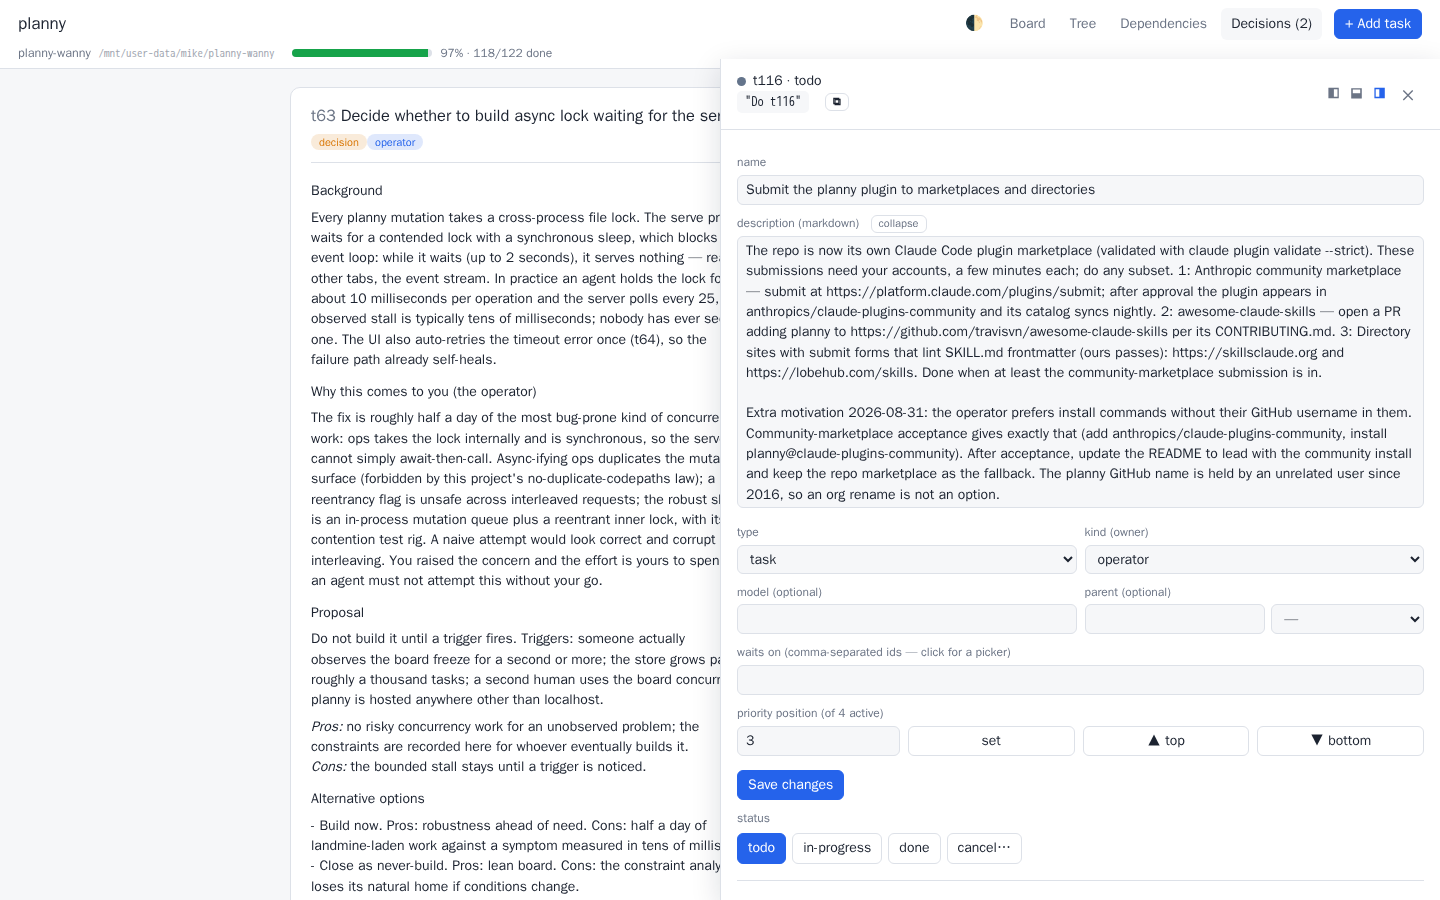
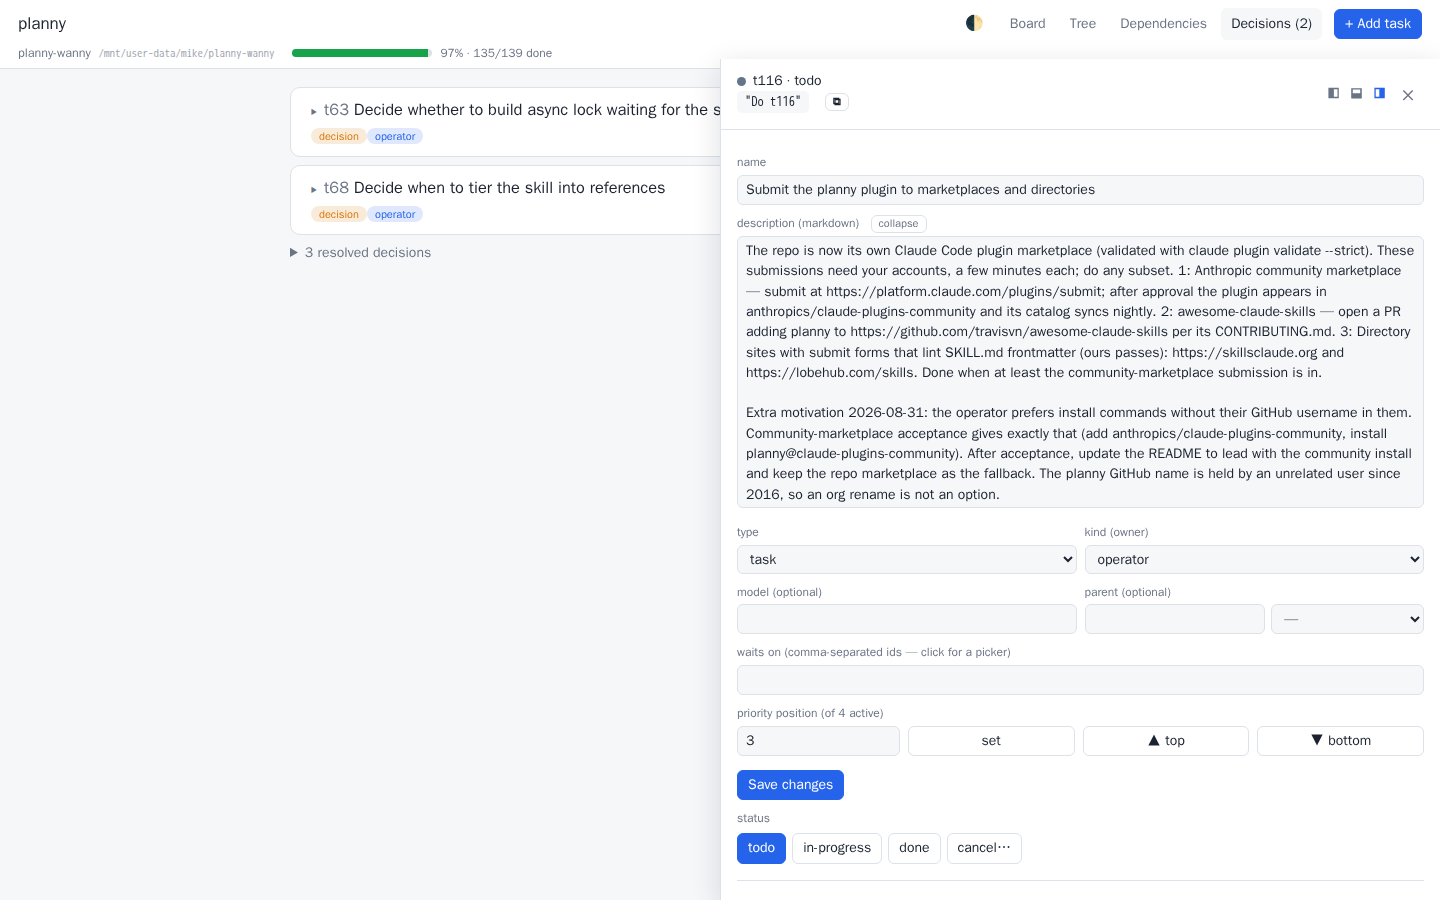
Decisions view: tiles start collapsed, expand on click; screenshots retaken (t140)
Claude-Session: https://claude.ai/code/session_01G75wbk7cxJgHXCGDBVyqTg

Changed region(s): [[0.2188, 0.4356, 0.5, 0.9956], [0.2188, 0.0933, 0.5, 0.4044]]

diff --git a/test/ui.test.ts b/test/ui.test.ts
@@ -122,6 +122,14 @@ function clickTab(view: string): void {
   (document.querySelector(`.tab[data-view="${view}"]`) as HTMLElement).click();
 }
 
+function expandDecision(id: string): void {
+  (
+    document.querySelector(
+      `#view-decisions [data-action="toggle-decision"][data-id="${id}"]`,
+    ) as HTMLElement
+  ).click();
+}
+
 beforeEach(async () => {
   await bootApp();
 });
@@ -302,8 +310,31 @@ describe('ui smoke', () => {
     expect(edgeTitle.textContent).toBe('t1 blocks t3 — t3 waits on t1');
   });
 
+  it('decision tiles start collapsed and expand on click', async () => {
+    clickTab('decisions');
+    const tile = () => document.querySelector('#view-decisions .decision-card') as HTMLElement;
+    expect(tile().classList.contains('collapsed')).toBe(true);
+    expect(tile().textContent).toContain('Choose hosting'); // the header still names it
+    expect(tile().querySelector('.decision-body')).toBeNull(); // no body while collapsed
+    expect(tile().querySelector('button[data-action="accept"]')).toBeNull(); // no actions either
+
+    expandDecision('t4');
+    expect(tile().classList.contains('collapsed')).toBe(false);
+    expect(tile().querySelector('.decision-body strong')!.textContent).toBe('Fly.io');
+
+    // A background refresh must not snap the tile shut.
+    window.dispatchEvent(new Event('focus'));
+    await new Promise((r) => setTimeout(r, 5));
+    expect(tile().classList.contains('collapsed')).toBe(false);
+
+    expandDecision('t4'); // a second click collapses again
+    expect(tile().classList.contains('collapsed')).toBe(true);
+    expect(tile().querySelector('.decision-body')).toBeNull();
+  });
+
   it('renders open and resolved decisions with markdown bodies', () => {
     clickTab('decisions');
+    expandDecision('t4');
     const view = document.querySelector('#view-decisions')!;
     expect(view.textContent).toContain('Choose hosting');
     expect(view.querySelector('.decision-body strong')!.textContent).toBe('Fly.io');
@@ -326,6 +357,7 @@ describe('ui smoke', () => {
 
   it('a skipped decision moves to a visible skipped list and can come back', () => {
     clickTab('decisions');
+    expandDecision('t4');
     (document.querySelector('button[data-action="skip"][data-id="t4"]') as HTMLElement).click();
     const view = document.querySelector('#view-decisions')!;
     expect(view.textContent).toContain('Skipped for now');
@@ -343,6 +375,7 @@ describe('ui smoke', () => {
 
   it('accepting a decision posts a resolve', () => {
     clickTab('decisions');
+    expandDecision('t4');
     (document.querySelector('button[data-action="accept"][data-id="t4"]') as HTMLElement).click();
     const resolve = fetchCalls.find((c) => c.path === '/api/tasks/t4/resolve');
     expect(resolve).toBeDefined();
@@ -456,6 +489,7 @@ describe('ui smoke', () => {
 
   it('a background refresh keeps decision drafts and focus', async () => {
     clickTab('decisions');
+    expandDecision('t4');
     const draft = () =>
       document.querySelector('textarea[data-role="response"][data-id="t4"]') as HTMLTextAreaElement;
     draft().value = 'leaning towards yes';

diff --git a/web/app.js b/web/app.js
@@ -9,6 +9,8 @@ const state = {
   selected: null, // task id shown in the drawer, or '__new__'
   collapsed: new Set(),
   skippedDecisions: new Set(),
+  expandedDecisions: new Set(), // open-decision tiles start collapsed
+
   depsMode: readPreference('planny-deps-mode', 'blocks'),
   treeFilters: {
     statuses: new Set(['todo', 'in-progress']),
@@ -483,11 +485,12 @@ function renderDecisions() {
             <button data-action="skip" data-id="${task.id}">Skip for now</button>
           </div>
         </div>`;
-    return `<div class="decision-card${blocked ? ' blocked' : ''}">
-      <h3><span class="id muted">${task.id}</span> ${esc(task.name)}</h3>
+    const expanded = state.expandedDecisions.has(task.id);
+    return `<div class="decision-card${blocked ? ' blocked' : ''}${expanded ? '' : ' collapsed'}">
+      <h3 data-action="toggle-decision" data-id="${task.id}"><span class="disclose muted">${expanded ? '▾' : '▸'}</span><span class="id muted">${task.id}</span> ${esc(task.name)}</h3>
       <div class="badges">${badges(task)}</div>
-      <div class="decision-body">${renderMarkdown(task.body || '_no detail_')}</div>
-      ${actions}
+      ${expanded ? `<div class="decision-body">${renderMarkdown(task.body || '_no detail_')}</div>
+      ${actions}` : ''}
     </div>`;
   });
 
@@ -899,6 +902,13 @@ document.addEventListener('click', (event) => {
     }
     if (action === 'top') {
       if (guard(`Move ${id} to the top of the priority order?`)) api(`/api/tasks/${id}/bump`, 'POST', { target: 'top' });
+      return;
+    }
+    if (action === 'toggle-decision') {
+      state.expandedDecisions.has(id)
+        ? state.expandedDecisions.delete(id)
+        : state.expandedDecisions.add(id);
+      renderDecisions();
       return;
     }
     if (action === 'skip') {

diff --git a/web/style.css b/web/style.css
@@ -235,6 +235,10 @@ main { padding: 18px; max-width: 1500px; margin: 0 auto; }
 #view-decisions { max-width: 860px; margin: 0 auto; }
 .decision-card { background: var(--panel); border: 1px solid var(--line); border-radius: 10px; padding: 16px 20px; margin-bottom: 16px; }
 .decision-card h3 { margin: 0 0 4px; }
+.decision-card h3[data-action="toggle-decision"] { cursor: pointer; user-select: none; }
+.decision-card .disclose { display: inline-block; width: 1em; font-size: 0.8em; }
+.decision-card.collapsed { padding: 10px 20px; margin-bottom: 8px; }
+.decision-card.collapsed .badges { margin: 0; }
 .decision-card.blocked { opacity: 0.65; }
 .decision-body { border-top: 1px solid var(--line); margin-top: 10px; padding-top: 6px; }
 .decision-body h2 { font-size: 15px; margin: 14px 0 4px; }

diff --git a/.planny/tasks/t140.md b/.planny/tasks/t140.md
@@ -1,0 +1,22 @@
+---
+id: t140
+name: "Decisions view: collapsed tiles that expand on click"
+status: done
+type: task
+kind: ai
+priority: 198
+created: 2026-08-31T22:08:17.172Z
+updated: 2026-08-31T22:12:21.286Z
+created_by: claude-fable-session-01G75wbk
+history:
+  - at: 2026-08-31T22:08:17.215Z
+    status: in-progress
+    by: claude-fable-session-01G75wbk
+  - at: 2026-08-31T22:12:21.285Z
+    status: done
+    by: claude-fable-session-01G75wbk
+---
+
+Operator request. The decisions view renders every open decision fully expanded. Change it to a list of tiles, default collapsed — header line only (id, name, chips) — expanding to the full body and the respond, accept, skip controls when clicked, collapsing again on a second click. Expansion state lives in client state keyed by id so background refreshes do not snap tiles shut. Red-green-refactor in test/ui.test.ts.
+
+Built: open-decision tiles render collapsed (header, chevron, chips) and expand on a header click; state.expandedDecisions keys the toggle so background refreshes keep tiles open; respond, accept, skip render only while expanded. Tests: one new case covering default-collapsed, expand, refresh survival, re-collapse; four existing decision tests now expand first; 313 pass. Both README decision screenshots retaken against the live board. Also spliced (STE) into the skill's prose rule so the abbreviation is defined before use.

diff --git a/skills/planny/SKILL.md b/skills/planny/SKILL.md
@@ -29,7 +29,8 @@ Rules that keep the store consistent:
   keeps relationships one-sided (children and "blocks" are derived), rejects
   cycles, and keeps priority consistent with dependencies. Reading the raw
   files (grep, cat) is fine and encouraged.
-- Write task names and bodies in Simplified Technical English in spirit:
+- Write task names and bodies in Simplified Technical English (STE) in
+  spirit:
   short sentences, active voice, one meaning per word, no project shorthand
   without a definition.
 - A task that needs several owners (plan, build, review) becomes child tasks,
